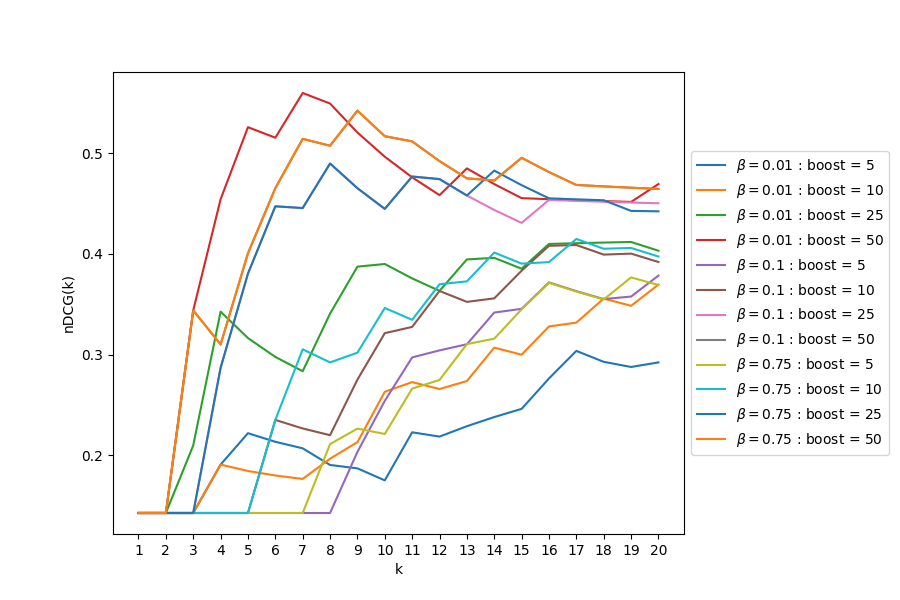
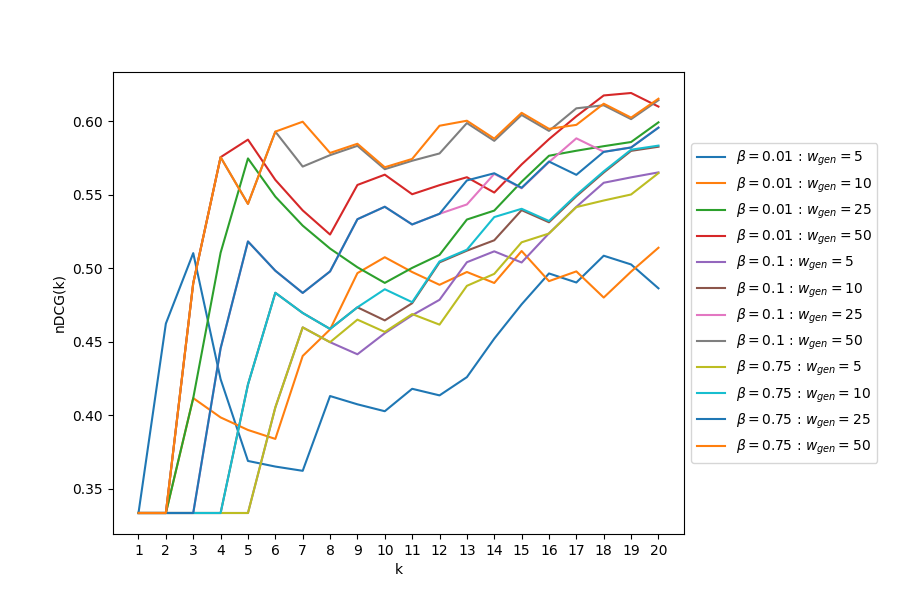
Ran experiments for parameter selection and implemented the best parameters in searcher class.

diff --git a/relevance_tests/nDCG_calculator.py b/relevance_tests/nDCG_calculator.py
@@ -14,7 +14,7 @@ def nDCG(results, ratings, Z, k):
 		if result not in ratings:
 			print(f'"{result}" : ,')
 			continue
-		sum += (2**ratings[result] - 1) / np.log2(2 + i)
+		sum += ratings[result] / np.log2(2 + i)
 	return Z[k-1] * sum
 
 def calc_nDCG(results, ratings, Z):
@@ -24,11 +24,11 @@ def calc_Z(n):
 	Z_inv = []
 	for i in range(100):
 		if not Z_inv:
-			value = (2**3 - 1) / np.log2(2)
+			value = 3 / np.log2(2)
 			Z_inv.append(value)
 			continue
 		
-		value = (2**3 - 1) / np.log2(2 + i)
+		value = 3 / np.log2(2 + i)
 		Z_inv.append(value + Z_inv[-1])
 			
 	Z = [1/z for z in Z_inv]
@@ -54,7 +54,37 @@ def get_query_data(username, query):
 	ratings = query_data['ratings']
 	return result_collection, ratings
 
-def plot_ndcg(username, query, betas=None, g_boosts=None):
+def best_params(username, query, k=10, n=3):
+	path = f'./relevance_tests/data/{username}.json'
+	
+	Z = calc_Z(100)
+
+	result_collection, ratings = get_query_data(username, query)
+
+	betas = list(result_collection.keys())
+	max_ndcgs = [0] * n
+	best_betas = [None] * n
+	best_boosts = [None] * n
+	for beta in betas:
+		g_boosts = list(result_collection[beta].keys())
+		for g_boost in g_boosts:
+			results = result_collection[beta][g_boost]
+			ndcg = nDCG(results, ratings, Z, k)
+			for i in range(n):
+				if ndcg > max_ndcgs[i]:
+					max_ndcgs.insert(i, ndcg)
+					best_betas.insert(i, beta)
+					best_boosts.insert(i, g_boost)
+					max_ndcgs = max_ndcgs[:n]
+					best_betas = best_betas[:n]
+					best_boosts = best_boosts[:n]
+					break
+	
+	return [str(beta) for beta in best_betas], [str(boost) for boost in best_boosts]
+			
+
+
+def plot_ndcg(username, query, betas=None, g_boosts=None, suffix='all', legend_shift=True, collective_beta_and_boosts = None, last_dashed=True):
 	path = f'./relevance_tests/data/{username}.json'
 	
 	Z = calc_Z(100)
@@ -64,24 +94,40 @@ def plot_ndcg(username, query, betas=None, g_boosts=None):
 	fig = plt.figure(figsize=(9,6))
 	ax = plt.subplot(111)
 
-	if betas is None:
-		betas = list(result_collection.keys())
-	for beta in betas:
-		if g_boosts is None:
-			g_boosts = list(result_collection[beta].keys())
-		for g_boost in g_boosts:
+	if collective_beta_and_boosts is not None:
+		for i, (beta, g_boost) in enumerate(collective_beta_and_boosts):
 			results = result_collection[beta][g_boost]
 			ndcgs = calc_nDCG(results, ratings, Z)
 			ks = list(range(1, len(ndcgs)+1))
-			ax.plot(ks, ndcgs, label=rf'$\beta = {beta:4}$ : boost = {g_boost}')
+			if last_dashed and (i == len(collective_beta_and_boosts) - 1):
+				fmt = "--k"
+			else:
+				fmt = "-"
+			ax.plot(ks, ndcgs, fmt, label=rf'$\beta = {beta:4}$ : ' + r'$w_{gen} = $' + f'{g_boost}')
+	else:
+		if betas is None:
+			betas = list(result_collection.keys())
+		for beta in betas:
+			if g_boosts is None:
+				g_boosts = list(result_collection[beta].keys())
+			for g_boost in g_boosts:
+				results = result_collection[beta][g_boost]
+				ndcgs = calc_nDCG(results, ratings, Z)
+				ks = list(range(1, len(ndcgs)+1))
+				ax.plot(ks, ndcgs, label=rf'$\beta = {beta:4}$ : ' + r'$w_{gen} = $' + f'{g_boost}')
 
 	# Shrink current axis by 18%
-	box = ax.get_position()
-	ax.set_position([box.x0, box.y0, box.width * 0.82, box.height])
+	if legend_shift:
+		box = ax.get_position()
+		ax.set_position([box.x0, box.y0, box.width * 0.82, box.height])
 
 	# Put a legend to the right of the current axis
-	ax.legend(loc='center left', bbox_to_anchor=(1, 0.5))
+	if legend_shift:
+		ax.legend(loc='center left', bbox_to_anchor=(1, 0.5))
+	else:
+		ax.legend()
 	plt.xlabel('k')
 	plt.ylabel('nDCG(k)')
 	plt.xticks(ks)
-	plt.savefig(f'./relevance_tests/plots/{username}-{"_".join(query.split(" "))}.png')
+	plt.savefig(f'./relevance_tests/plots/{username}-{"_".join(query.split(" "))}_{suffix}.png')
+	

diff --git a/relevance_tests/relevance_checker.py b/relevance_tests/relevance_checker.py
@@ -166,7 +166,7 @@ class BookRankerApp(QMainWindow):
 		# Save updated data to file
 		with open(path, "w") as outfile: 
 			json.dump(data, outfile)
-				
+
 
 def main():
 	username = input('Username: ')
@@ -177,7 +177,10 @@ def main():
 	window.show()
 	app.exec_() # sys.exit(app.exec_())
 	try:
-		nDCG_calculator.plot_ndcg(username, query, betas=["0.01"])
+		nDCG_calculator.plot_ndcg(username, query)
+		best_betas, best_boosts = nDCG_calculator.best_params(username, query, k=10, n=3)
+		nDCG_calculator.plot_ndcg(username, query, collective_beta_and_boosts=zip(best_betas, best_boosts), suffix='best', legend_shift=False, last_dashed=False)
+		nDCG_calculator.plot_ndcg(username, query, collective_beta_and_boosts=[("0.75", "50"), ("0.1", "50"), ("0.01", "50"), ("0.01", "5"), ("0.01", "10"), ("0.01", "25")], suffix='compare', legend_shift=False, last_dashed=True)
 	except FileNotFoundError:
 		print("File not found")
 	except IndexError:

diff --git a/searcher.py b/searcher.py
@@ -22,13 +22,20 @@ class Searcher:
 	Main class for handling recommendation queries for new books.
 	"""
 	ALPHA = 1.0
-	BETA = 0.75
-	GENRE_BOOST = 5
+	BETA = 0.01
+	GENRE_BOOST = 25
 	ABSTRACT_BOOST = 1
-	SCORE_FUNCTION = "sigmoid(doc['n_reviews'].value, 2, 1) * doc['rating'].value"
 	MAX_HITS = 30
 	RELEVANCE_THRESHOLD = 1e-4
 	WEIGHT_THRESHOLD = 1e-4 # If weight is less than this it is deemed as irrelevant.
+
+	SIGMOID_HALF = 100 # Number of ratings for which sigmoid should be 1/2
+	SIGMOID_THREE_QUARTS = 1000 # Number of ratings for which sigmoid should be 3/4
+
+	# Scaling and shifting params for sigmoid function
+	SIG_A = (SIGMOID_THREE_QUARTS - SIGMOID_HALF) / 2
+	SIG_B = 1 - SIGMOID_HALF / SIG_A
+	SCORE_FUNCTION = f"sigmoid(doc['n_reviews'].value / {SIG_A} + {SIG_B}, 1, 1) * doc['rating'].value"
 
 	def __init__(self, client: Elasticsearch, book_index) -> None:
 		self.client = client
